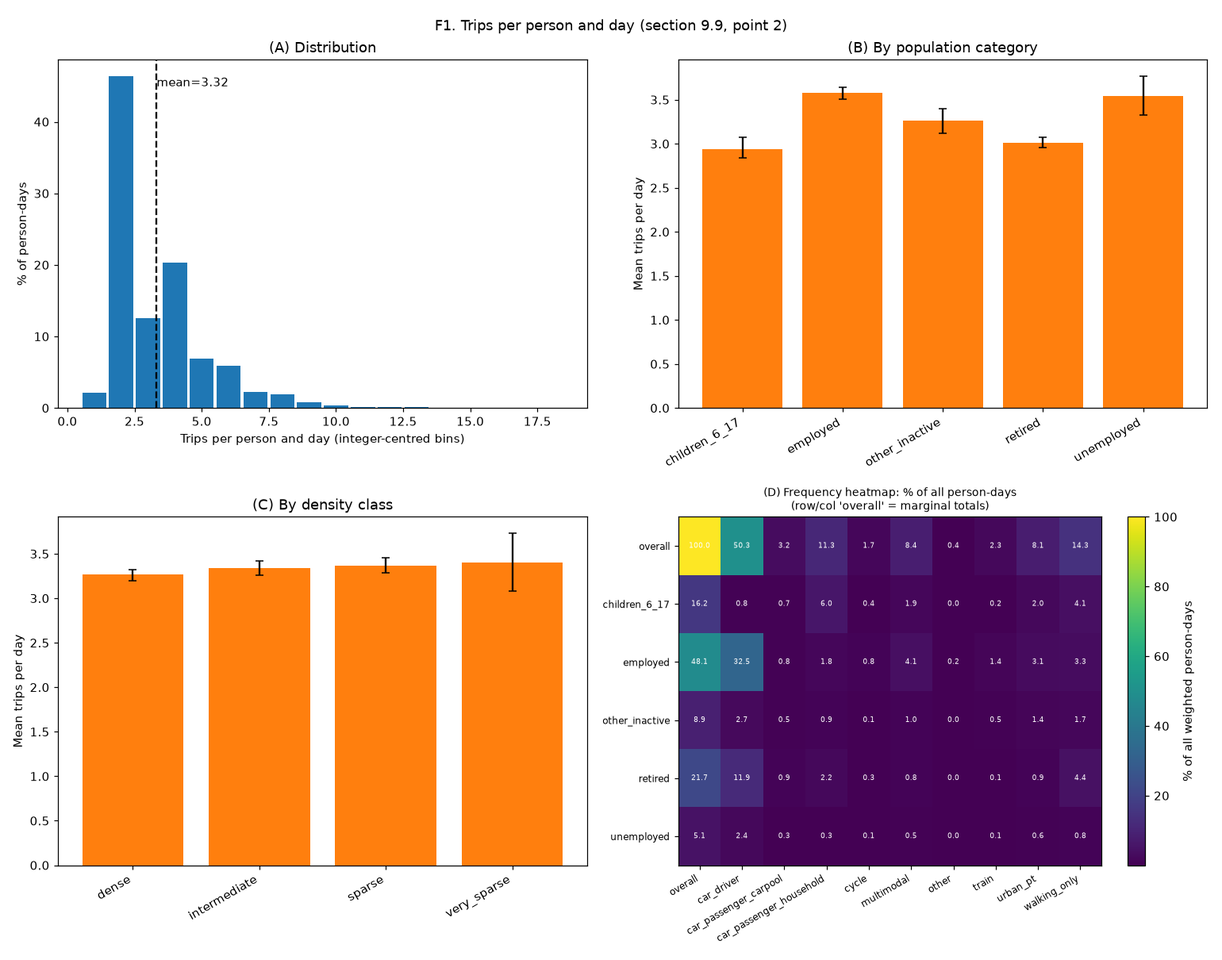
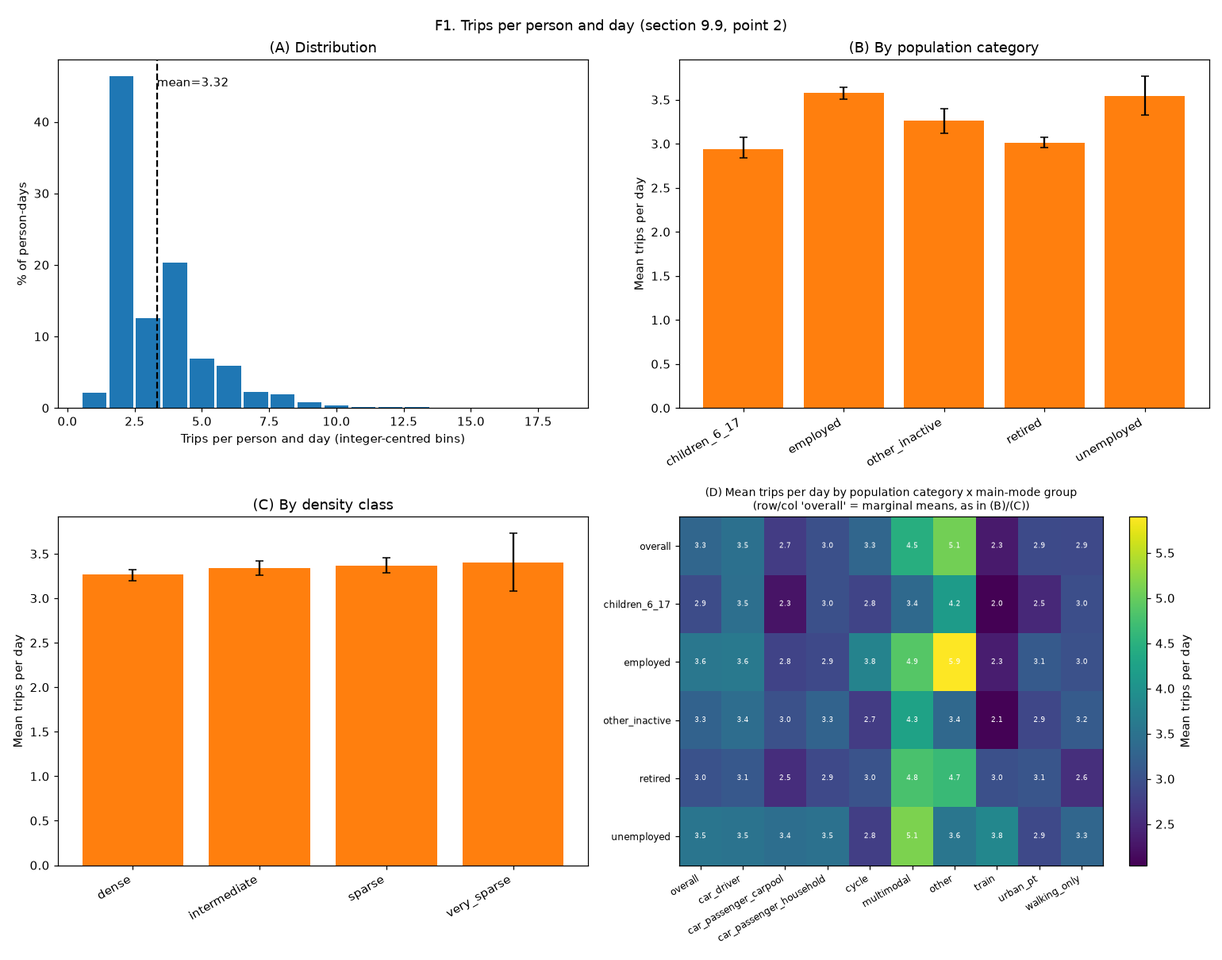
Step 11 (ninth round): F1 heatmap as mean trips/day, F4a value labels
- F1 panel (D) now reports the weighted mean trips per day in each
  (population category x main-mode group) cell instead of a % share of
  person-days, so it is the direct cross-tabulated synthesis of panels
  (B) and (C); the "overall" row/column are marginal means and the
  top-left cell matches panel (A)'s reported mean exactly.
- F4a now prints each bar's mean value as text and adds two dotted
  reference lines for the overall median (kh/cp), each labelled with
  its numeric value, next to the existing KH-615 and computed-mean
  lines.
- docs/progress.md: ninth-round note.

Audited (no code change): every mean/median/CI/ratio in this module is
weighted by pond_jour (weighted_mean_variance, bootstrap_group_stats,
bootstrap_mean_ci, _panel_overall_stats, _frequency_matrix, v0/P0
ratio-of-weighted-sums estimators, robustness rows, SQL
sum(pond_jour * ...) aggregates); the one unweighted mean/std in
daily_energy.py's robustness CV operates on already-weighted group
means, not raw data.

Ruff clean; 22 budget tests pass.

diff --git a/packages/mobgrid/budget/emp.py b/packages/mobgrid/budget/emp.py
@@ -632,17 +632,18 @@ def _trips_per_day_by_group(
 
 
 def _frequency_matrix(days: dict) -> tuple[list[str], list[str], np.ndarray]:
-    """(rows, cols, matrix): % of all weighted person-days in each
-    (population category, main-mode group) cell, with "overall" margins
-    in both directions (row 0/col 0), for F1's frequency heatmap. Excludes
-    the 'unknown' population category, as elsewhere in this report."""
+    """(rows, cols, matrix): weighted mean trips per day in each
+    (population category, main-mode group) cell -- the same quantity as
+    F1 panels (B)/(C), cross-tabulated instead of two separate bar
+    charts -- with "overall" margins in both directions (row 0/col 0,
+    mean trips/day ignoring the other axis). Excludes the 'unknown'
+    population category, as elsewhere in this report."""
     categories = sorted(
         {c for c in days["population_category"] if c != "unknown"}
     )
     modes = sorted(set(days["day_mode_group"]))
     rows = ["overall", *categories]
     cols = ["overall", *modes]
-    total_weight = days["pond_jour"].sum()
     matrix = np.zeros((len(rows), len(cols)))
     for i, category in enumerate(rows):
         category_mask = (
@@ -654,9 +655,14 @@ def _frequency_matrix(days: dict) -> tuple[list[str], list[str], np.ndarray]:
                 np.ones(len(days["pond_jour"]), dtype=bool) if mode == "overall"
                 else days["day_mode_group"] == mode
             )
+            cell_mask = category_mask & mode_mask
+            cell_weight = days["pond_jour"][cell_mask]
             matrix[i, j] = (
-                days["pond_jour"][category_mask & mode_mask].sum()
-                / total_weight * 100.0
+                float(
+                    np.sum(cell_weight * days["trips_per_day"][cell_mask])
+                    / cell_weight.sum()
+                )
+                if cell_weight.sum() > 0 else np.nan
             )
     return rows, cols, matrix
 
@@ -711,15 +717,16 @@ def _figure_f1_trips_per_day(
     ax_freq.set_yticklabels(freq_rows, fontsize=8)
     for i in range(freq_matrix.shape[0]):
         for j in range(freq_matrix.shape[1]):
-            ax_freq.text(
-                j, i, f"{freq_matrix[i, j]:.1f}", ha="center", va="center",
-                fontsize=6, color="white",
-            )
+            if not np.isnan(freq_matrix[i, j]):
+                ax_freq.text(
+                    j, i, f"{freq_matrix[i, j]:.1f}", ha="center", va="center",
+                    fontsize=6, color="white",
+                )
     ax_freq.set_title(
-        "(D) Frequency heatmap: % of all person-days\n"
-        "(row/col 'overall' = marginal totals)", fontsize=9,
+        "(D) Mean trips per day by population category x main-mode group\n"
+        "(row/col 'overall' = marginal means, as in (B)/(C))", fontsize=9,
     )
-    fig.colorbar(image, ax=ax_freq, label="% of all weighted person-days")
+    fig.colorbar(image, ax=ax_freq, label="Mean trips per day")
 
     fig.suptitle("F1. Trips per person and day (section 9.9, point 2)")
     fig.tight_layout()
@@ -853,25 +860,32 @@ def _bootstrap_stats_where(
     return {s.group: s for s in stats}
 
 
-def _panel_overall_mean(
+def _panel_overall_stats(
     con: duckdb.DuckDBPyConnection, where_sql: str
-) -> tuple[float, float]:
-    """This panel's own weighted mean daily energy (both rate sets),
-    across every main-mode group combined (F4a's "computed mean" line,
-    distinct from Koelbl & Helbing's fixed 615 kJ reference)."""
+) -> tuple[float, float, float, float]:
+    """This panel's own weighted mean and median daily energy (both rate
+    sets), across every main-mode group combined (F4a's "computed mean"
+    and "overall median" lines, distinct from Koelbl & Helbing's fixed
+    615 kJ reference)."""
     rows = con.sql(
         "SELECT pond_jour, total_energy_kh_kj, total_energy_cp_kj FROM day_summary "
         f"WHERE total_energy_kh_kj IS NOT NULL AND ({where_sql})"
     ).fetchnumpy()
     if len(rows["pond_jour"]) == 0:
-        return float("nan"), float("nan")
+        return (float("nan"),) * 4
     mean_kh, _ = daily_energy.weighted_mean_variance(
         rows["pond_jour"], rows["total_energy_kh_kj"]
     )
     mean_cp, _ = daily_energy.weighted_mean_variance(
         rows["pond_jour"], rows["total_energy_cp_kj"]
     )
-    return mean_kh, mean_cp
+    median_kh = daily_energy._weighted_median(
+        rows["total_energy_kh_kj"], rows["pond_jour"]
+    )
+    median_cp = daily_energy._weighted_median(
+        rows["total_energy_cp_kj"], rows["pond_jour"]
+    )
+    return mean_kh, mean_cp, median_kh, median_cp
 
 
 def _figure_f4_mean_by_mode(
@@ -894,8 +908,8 @@ def _figure_f4_mean_by_mode(
         (label, _bootstrap_stats_where(con, where_sql, n_reps=n_reps, seed=seed))
         for label, where_sql in panel_where_sql
     ]
-    panel_means = {
-        label: _panel_overall_mean(con, where_sql)
+    panel_stats_overall = {
+        label: _panel_overall_stats(con, where_sql)
         for label, where_sql in panel_where_sql
     }
 
@@ -928,6 +942,12 @@ def _figure_f4_mean_by_mode(
                 x + offset, medians, marker="D", color="black", s=14, zorder=3,
                 label=f"{rate_key} median" if ax is axes.flat[0] else None,
             )
+            for xi, mean, upper in zip(x + offset, means, uppers, strict=True):
+                if not np.isnan(mean):
+                    ax.text(
+                        xi, mean + upper, f"{mean:.0f}", ha="center", va="bottom",
+                        fontsize=6, rotation=90,
+                    )
         for i, group in enumerate(present):
             ax.text(
                 i, 0, f"n={stats[group].n}", ha="center", va="bottom", fontsize=6,
@@ -938,7 +958,9 @@ def _figure_f4_mean_by_mode(
             linewidth=0.8,
             label="Koelbl & Helbing 615 kJ" if ax is axes.flat[0] else None,
         )
-        panel_mean_kh, panel_mean_cp = panel_means[label]
+        panel_mean_kh, panel_mean_cp, panel_median_kh, panel_median_cp = (
+            panel_stats_overall[label]
+        )
         ax.axhline(
             panel_mean_kh, color="tab:blue", linestyle="-.", linewidth=0.8,
             label="computed mean (kh)" if ax is axes.flat[0] else None,
@@ -946,6 +968,22 @@ def _figure_f4_mean_by_mode(
         ax.axhline(
             panel_mean_cp, color="tab:orange", linestyle="-.", linewidth=0.8,
             label="computed mean (cp)" if ax is axes.flat[0] else None,
+        )
+        ax.axhline(
+            panel_median_kh, color="tab:blue", linestyle=":", linewidth=0.8,
+            label="overall median (kh)" if ax is axes.flat[0] else None,
+        )
+        ax.text(
+            len(present) - 0.5, panel_median_kh, f"{panel_median_kh:.0f}",
+            color="tab:blue", fontsize=6, ha="right", va="bottom",
+        )
+        ax.axhline(
+            panel_median_cp, color="tab:orange", linestyle=":", linewidth=0.8,
+            label="overall median (cp)" if ax is axes.flat[0] else None,
+        )
+        ax.text(
+            len(present) - 0.5, panel_median_cp, f"{panel_median_cp:.0f}",
+            color="tab:orange", fontsize=6, ha="right", va="top",
         )
         ax.set_xticks(x)
         ax.set_xticklabels(present, rotation=45, ha="right", fontsize=7)
@@ -955,7 +993,8 @@ def _figure_f4_mean_by_mode(
         ax.axis("off")
     fig.suptitle(
         "F4a. Mean daily energy by main-mode group, 95% CI, n, median marker, "
-        "this panel's own computed mean (section 9.9)"
+        "mean/median values, this panel's own computed mean and overall "
+        "median (section 9.9)"
     )
     fig.tight_layout()
     path_energy = out_dir / "f04a_mean_energy_by_mode.png"

diff --git a/docs/progress.md b/docs/progress.md
@@ -2,7 +2,7 @@
 
 Read this file at the start of every task and update it at the end.
 
-_Last updated: 2026-10-20 by Copilot (step 11, eighth round: merged `train_short`/`train_long` into a single `train` day-mode group (too few `train_long` observations); extended the needs-only exclusion to the whole of motive group 8 (holidays/second home/other private reasons), not just 7.6/7.7/7.8; F9 now has two panels, full dataset and the final needs-only decomposition; F1 gained a frequency heatmap (population category x main-mode group, with marginal "overall" row/column); branch `step/mobgrid-budget`, awaiting review)_
+_Last updated: 2026-10-20 by Copilot (step 11, ninth round: F1's heatmap now shows mean trips/day per cell instead of a % share, consistent with panels B/C; F4a bars now print their mean value and two new dotted lines mark the overall median (kh/cp) with its value; confirmed by code audit that `pond_jour` weighting is used throughout; branch `step/mobgrid-budget`, awaiting review)_
 
 ## Steps (table of section 14.5)
 
@@ -25,7 +25,7 @@ _Last updated: 2026-10-20 by Copilot (step 11, eighth round: merged `train_short
 | 8 | `mobgrid/graph` | not started | | |
 | 9 | `mobgrid/layers/gridgraph.py` | not started | | |
 | 10 | `mobgrid/od` | not started | | |
-| 11 | `mobgrid/budget` | review | `step/mobgrid-budget` | **Brought forward before steps 8-10** (needs only step 7 and the EMP 2019 public tables, not the graph/OD steps). Section 9.9's re-estimation steps 1-3 and 5 on EMP 2019's public tables (`K_DEPLOC`, `TCM_IND_KISH`, `K_INDIVIDU`; `TCM_IND`/`Q_MENAGE` acquired and checked but not needed by this step's formulas); EMC² (step 4) and Ē_c (step 6) are out of scope. `emp2019.py` rebuilds each of the 45,169 EMP 2019 trips (13,370 respondents, 455 reporting no trip) as legs, reusing `mobgrid.energy`'s public walk/bike/legs/rates formulas: terminal legs by density class (car: `config.car.*`, already calibrated for step 7; PT: provisional `config.pt_ride.headway_min_am_peak`/`station_height_m`/`access_walk_m_by_density`, TODO(confirm), since EMP has no headway/station-depth/access-distance data) and the main leg at the rest of the declared duration (`DUREE`); companions (`MACCOMPM`/`MACCOMPHM`) separate household from carpool car passengers. `daily_energy.py` sums to one row per respondent, classifies each day by its one non-walk mode, and computes weighted group means with a household bootstrap 95% CI (`bootstrap_group_stats`), a method-of-moments gamma fit (no new `scipy` dependency), and the v0/P0 calibration by age band. Checked the user-reported ~119 kJ train-chain discrepancy from step 7's `checks.py`: escalators (standing rate), not stairs, are already correctly used above the 10 m threshold (commit `cc9eb81`'s fix). Found and fixed a pre-existing `config.pt_ride.standing_share_am_peak` key mismatch (4 of `load_factor_max`'s 8 vehicle keys were missing). **Second round (after main's spec 6/9 update, "population categories, train and passenger splits"):** day-mode groups now keep household/carpool passengers and short (<80 km)/long train separate (no collapsing; `emp2019.TRAIN_LONG_THRESHOLD_KM`), "multimodal" and "other" (enumerated in the report) stay apart; population category follows section 6.1's five groups exactly (`SITUA`'s student code now folds into `other_inactive`, dropping the ad hoc sixth "student" group); density labels use the INSEE grid's own names/order (dense/intermediate/sparse/very_sparse; `emp2019._DENSITY_LABEL_BY_CODE`/`_DENSITY_KEY_TRANSLATION`), checked against the categories PDF. v0 and P0 are now ratio-of-weighted-sums estimators (not averages of per-trip speeds); P0 first subtracts bike get/park (new `config.bike.get_park_min`, 1 min each) and expected stop delays (new `config.bike.stops.stops_per_km`, both TODO(confirm)) from the declared duration, with an unreliable-adjustment fallback to the naive whole-duration speed below a minimum ride-time/fraction or above a plausibility speed cap (`emp2019._BIKE_MIN_RIDE_TIME_S`/`_BIKE_MIN_RIDE_FRACTION`/`_BIKE_MAX_PLAUSIBLE_SPEED_KMH`) for a handful of very short or implausibly fast cycling trips. `build_trip_legs` gained `terminal_scale`/`bike_p0_override_w` parameters and `create_day_summary` a `where_sql` filter, used by the new F8 robustness check (`daily_energy.robustness_row`/`RobustnessRow`): max/min ratio and CV of six groups' means, across both rate sets, terminal legs x0.5/x1/x1.5, P0 recalibrated vs the 52.5 W reference, weekdays-only vs all days, and local-trips-only (`MOBLOC=1`) vs all. Added a weighted Gaussian KDE on log-energy (`daily_energy.weighted_gaussian_kde`/`weighted_gaussian_bandwidth`, Silverman's rule, no `scipy`) for F3's stacked/overlaid density figures (overall and one per population category, Compendium, with a KH appendix). Investigated the non-traveller immobility share (reported low at 2.7%): identification is "no K_DEPLOC row for the day", which matches `K_INDIVIDU`'s own `MIMMOSEM` flag exactly for all 455 cases; EMP 2019's public tables record no day-of-week for a fully immobile respondent, so the figure is an inherently weekday-dominated estimate, not an all-week average (documented, not changed). Verification command `python -m mobgrid.budget.emp --out docs/data/step11_budget` (`emp.py`) now writes 11 PNGs (F1, F3 x4 incl. KH appendix, F4a/b, F5, F6, F7, F8) plus `docs/data/step11_budget.md`; run once, committed. On real EMP 2019 data (second round): overall weighted mean daily energy 684 kJ (KH) / 604 kJ (Compendium) against Koelbl & Helbing's 615 kJ hypothesis; calibrated v0 3.96 km/h (configured 4.8), P0 34.8 W at an implied flat speed of 13.55 km/h (reference 52.5 W at 16 km/h). **Third round (new `docs/spec/09_trip_legs_energy.md`, unloaded pedalling cost):** `emp2019.py`'s cycle-energy SQL formula gains the same unloaded-pedalling term as `mobgrid.energy.bike` (section 9.7, step 7 third round), on `bike_ride_time_for_energy_s` at the reference mass, both rate sets; P0 itself is unaffected (it is calibrated from implied speed via force-balance physics, not from energy/duration), still 34.8 W at 13.55 km/h. Added two tables to `step11_budget.md`: mean daily energy (both rate sets) and time, 95% CI and n, for every main-mode group, overall and one sub-table per population category (`emp._figure_f4_mean_by_mode` now also returns its per-panel stats, `_format_group_table_by_panel`); the F8 robustness table now also names each variant's min/max group (`daily_energy.RobustnessRow`/`robustness_row` gained `*_min_group`/`*_max_group` fields). Rerun on real EMP 2019 data: overall weighted mean daily energy 691.1 kJ (kh), 611.2 kJ (compendium); v0/P0 unchanged. Ruff clean; 18 budget tests pass (361 total, 3 pilot deselected). **Fourth round (bug fix and data-quality/robustness additions):** found and fixed the cycling-energy bug the user flagged (cycle-day energy at 1,295 kJ/69.6 min, ~18.6 kJ/min, above the population riding rate and with a tail to 10^4 kJ): `emp2019.py`'s energy formula derived each cycling trip's OWN power from its own (reliability-adjusted) implied speed -- correct for the aggregate v0/P0 calibration (a ratio of weighted sums), but wrong for per-trip energy, since power is convex in speed (drag's cubic term) and EMP's durations are rounded to 5/15/30/60 min, so averaging per-trip power over-estimates the population mean (the same Jensen's-inequality bias the ratio-of-sums estimator was built to avoid, reintroduced one level down). Fix: `build_trip_legs`'s cycling work term is now time-based at a single population-level power -- `bike_p0_override_w` if given, else `config.bike.power.p0_w` (34.8 W, EMP-confirmed) -- applied uniformly to every pedalled second (`bike_ride_time_for_energy_s`), matching how every other mode's rate is already a fixed, config-level constant, not a per-respondent recalibration; the per-trip `p0_calibrated_w` column is kept as a diagnostic only. Mean cycle-day energy dropped from 1,459 kJ to 1,020 kJ (median 735->706 kJ, max 21,761->6,747 kJ) on the unfiltered sample. Added a door-to-door speed-plausibility data-quality filter, all modes (walk 1.5-7 km/h, bike 5-35 km/h, car <=130 km/h; `emp2019.WALK_PLAUSIBLE_SPEED_KMH`/`CYCLE_PLAUSIBLE_SPEED_KMH`/`CAR_MAX_PLAUSIBLE_SPEED_KMH`, new `trip_legs.speed_plausible` column), with the main-mode group table reported both with and without flagged trips in `step11_budget.md` (25.8% of walk trips are flagged, mostly short, rounded-duration trips; 15.1% of cycle trips; 0% of car trips). Added weighted medians next to every mean in `GroupStats`/the group tables (`daily_energy._weighted_median`/`_weighted_group_medians`). Extended the F8 robustness table with a "core" scope (walk/driver/urban PT/train short) alongside the existing "full" six-group scope (`daily_energy.F8_CORE_ROBUSTNESS_GROUPS`, `RobustnessRow.scope`). Investigated "children as car drivers" (n=56 children_6_17 car_driver days): the raw `mtp` code is 3.1/3.3 ("Automobile" category, not a two-wheeler 2.x code), so no two-wheeler reclassification applies; most plausibly EMP's own household/accompanying-trip coding for the under-14 share, genuine voiturette/accompanied driving possible for the 14-17 share. F3's density figures now drop groups/panels with n < 50 trips and the 'unknown' population category (12 persons, also dropped from F1/F4/F5), and use a widened (x1.5) Silverman bandwidth; removed three stale first-round figure files (`f03_daily_energy_histogram.png`, `f04_mean_by_mode.png`, `f05_mean_by_age_density.png`). Rerun on real EMP 2019 data: overall weighted mean daily energy 682.1 kJ (kh), 602.3 kJ (compendium), closer to Koelbl & Helbing's 615 kJ than the buggy 691.1/611.2; v0/P0 calibration unaffected (still 34.8 W at 13.55 km/h, since it never used the per-trip power). Ruff clean; 19 budget tests pass (362 total, 3 pilot deselected). **Fifth round (leisure loops, correction instead of drop, decomposition, median robustness, every figure twice):** leisure-loop trips identified by EMP's own `MMOTIFDES` = 7.7 ("se promener sans destination precise"; no commune-level origin field exists in the public release for a geometric origin=destination check, so the purpose code is EMP's own operationalisation); `trip_legs.is_loop_trip`, reported as trip/day-energy shares by main-mode group and a loop-excluded group table (`create_day_summary`'s existing `where_sql`). The speed-quality filter is now upper-bound-only (walk > 7, bike > 35, car > 130 km/h; `emp2019.WALK_SPEED_UPPER_KMH`/`CYCLE_SPEED_UPPER_KMH`/`CAR_SPEED_UPPER_KMH`) and corrects flagged walk/car trips' declared distance to duration x the mode's own median speed (from its not-flagged trips, a window `median() FILTER` in `build_trip_legs`) instead of excluding them; bike is flagged but not corrected (its energy is already time-based). Added `emp._compute_cycle_decomposition` (ride work/unloaded/stops/get-park/same-day-walking, kJ and minutes, plus kJ/stop) to the report. `daily_energy.robustness_row`/`RobustnessRow` gained a `statistic` field (`"mean"`/`"median"`), so F8 now reports both for every variant and scope. F4a's bars now also show a diamond marker at each group's median. Every figure (F1-F8) is now produced twice per `emp._run_variant`, `"_all"`/`"_noloops"` (22 PNGs, replacing the single-pass set; `calibrate_v0_kmh`/`calibrate_p0` and `_run_robustness` gained a `where_sql`/`base_where_sql` filter for the `_noloops` pass). Ruff clean; 20 budget tests pass (363 total, 3 pilot deselected). **Sixth round (cycling energy by motive, user note "data for bike are still too large"):** decomposed cycling energy by `k_deploc.MOT_SEQ_COMPL` ("Motif corrige detaille de la sequence", EMP's own chain-level, corrected purpose -- unlike the raw, trip-level `MMOTIFDES` behind `is_loop_trip`, it excludes "return home" codes 1.1-1.3 since a return leg is recoded to its outward leg's purpose); new `trip_legs.motive` column (`emp2019.MOTIVE_LABEL_BY_CODE`, labels from the categories PDF's "Motif" table), `emp._compute_motive_decomposition`/`_format_motive_table` add a per-motive trip/energy-share table (sorted by weighted energy, largest first) plus a leisure-cycling rollup (`emp2019.LEISURE_CYCLING_MOTIVE_CODES` = 7.6 sport/7.7 loop/7.8 promenade-destination, per the user's own hunch) to `step11_budget.md`. Found: leisure cycling is 29.1% of weighted cycling trips but 46.9% of cycling's weighted energy (both rate sets, since cycling's own formula is almost entirely rate-set-invariant) -- the single largest identified driver of cycling's still-large mean energy, ahead of any remaining formula or data-quality issue. Ruff clean; 22 budget tests pass (365 total, 3 pilot deselected). **Seventh round (user confirmed the diagnosis; scope decision: "only interested in commuting and travelling for needs fulfilment"):** `emp2019.NEEDS_EXCLUDED_MOTIVE_CODES = (7.6, 7.7, 7.8)` and `NEEDS_ONLY_WHERE_SQL` (missing/refused motive kept, not excluded) are now the single base filter for every table and figure in the report -- not an optional variant; round 5's `_run_variant`/`_all`/`_noloops` figure-doubling mechanism is retired (back to one pass, one set of figures, per explicit user choice among three offered options). `_compute_cycle_decomposition` and the F8/v0/P0/passenger/carpool queries all now apply this same filter for consistency with `day_summary`'s own totals. A separate, final diagnostic pass on the full (unfiltered-by-motive) dataset keeps the motive-share evidence (now reported for every mode, not just cycling, via new `excluded_trip_shares`/`excluded_energy_shares`) and a few checks that must stay scope-independent (non-traveller share, data-quality corrections, children-as-car-drivers). New F9 figure: 100%-stacked bar of weighted KH energy by top-level motive (`emp2019.TOP_LEVEL_MOTIVE_LABEL_BY_CODE`), one bar per mode, full dataset -- confirms "leisure" is the largest or second-largest segment for cycle and walk. F4a gained two new per-panel "computed mean" reference lines (this panel's own weighted mean, kh and cp, alongside the fixed Koelbl & Helbing 615 kJ line), computed via new `emp._panel_overall_mean`. Investigated the user-reported "median below the CI interval, systematically": confirmed not a bug -- the bootstrap 95% CI is on the *mean*, which for samples in the hundreds/thousands is narrow, while every group's own distribution is right-skewed (a few long/expensive trips), so the median sits noticeably, and expectedly, below that narrow band; verified computationally (same underlying per-day values feed both estimators) rather than just asserted. Cycle group mean dropped 827 -> 632 kJ (median 607 -> 626, oddly close now); overall weighted mean dropped 587 kJ (kh) -- now *below* Koelbl & Helbing's 615 kJ, versus 682-691 kJ (overshooting) in earlier rounds. Figures: 12 total (F1, F3 x4 incl. KH appendix, F4a/b, F5, F6, F7, F8, F9), replacing round 5's 22 (`_all`/`_noloops` variants removed, F9 added); confirmed no stale files remain. Ruff clean; 22 budget tests pass (365 total, 3 pilot deselected). **Eighth round (final cleanup):** `train_short`/`train_long` (distance split at `TRAIN_LONG_THRESHOLD_KM` = 80 km) merged into a single `train` day-mode group across `emp2019.py` (classification CASE, both energy-formula CASE blocks), `daily_energy.DAY_MODE_GROUPS`/`F8_ROBUSTNESS_GROUPS`/`F8_CORE_ROBUSTNESS_GROUPS`, and every markdown string naming the split -- `train_long` had too few observations (n=39, vs train_short's 183) to be a meaningful separate group, and this removed a `TRAIN_LONG_THRESHOLD_KM` constant now dead. `emp2019.NEEDS_EXCLUDED_MOTIVE_CODES` extended from `(7.6, 7.7, 7.8)` to `(7.6, 7.7, 7.8, 8.1, 8.2, 8.3, 8.4)` (the whole of motive group 8 -- holidays, second/occasional residence, other private reasons -- none of them a needs-fulfilment destination), per explicit user confirmation; `_compute_motive_energy_matrix` gained a `where_sql` parameter so F9 can show both the full, pre-exclusion dataset (panel A, the evidence) and "the final decomposition" after the needs-only filter (panel B, confirms motive 8 disappears entirely and motive 7/leisure shrinks to its remaining 7.1-7.5 sub-codes, not to zero). F1 gained a 4th panel: a frequency heatmap of % of all weighted person-days by (population category x main-mode group), with "overall" marginal row/column (a genuine 2-way contingency table, not row-normalised), annotated with every cell's value. Cycle energy's needs-excluded share rose slightly to 47.8% (from 46.9%) once motive 8 was added; overall weighted mean daily energy is now 583.8 kJ (kh), 522.4 kJ (compendium). Ruff clean; 22 budget tests pass (365 total, 3 pilot deselected). |
+| 11 | `mobgrid/budget` | review | `step/mobgrid-budget` | **Brought forward before steps 8-10** (needs only step 7 and the EMP 2019 public tables, not the graph/OD steps). Section 9.9's re-estimation steps 1-3 and 5 on EMP 2019's public tables (`K_DEPLOC`, `TCM_IND_KISH`, `K_INDIVIDU`; `TCM_IND`/`Q_MENAGE` acquired and checked but not needed by this step's formulas); EMC² (step 4) and Ē_c (step 6) are out of scope. `emp2019.py` rebuilds each of the 45,169 EMP 2019 trips (13,370 respondents, 455 reporting no trip) as legs, reusing `mobgrid.energy`'s public walk/bike/legs/rates formulas: terminal legs by density class (car: `config.car.*`, already calibrated for step 7; PT: provisional `config.pt_ride.headway_min_am_peak`/`station_height_m`/`access_walk_m_by_density`, TODO(confirm), since EMP has no headway/station-depth/access-distance data) and the main leg at the rest of the declared duration (`DUREE`); companions (`MACCOMPM`/`MACCOMPHM`) separate household from carpool car passengers. `daily_energy.py` sums to one row per respondent, classifies each day by its one non-walk mode, and computes weighted group means with a household bootstrap 95% CI (`bootstrap_group_stats`), a method-of-moments gamma fit (no new `scipy` dependency), and the v0/P0 calibration by age band. Checked the user-reported ~119 kJ train-chain discrepancy from step 7's `checks.py`: escalators (standing rate), not stairs, are already correctly used above the 10 m threshold (commit `cc9eb81`'s fix). Found and fixed a pre-existing `config.pt_ride.standing_share_am_peak` key mismatch (4 of `load_factor_max`'s 8 vehicle keys were missing). **Second round (after main's spec 6/9 update, "population categories, train and passenger splits"):** day-mode groups now keep household/carpool passengers and short (<80 km)/long train separate (no collapsing; `emp2019.TRAIN_LONG_THRESHOLD_KM`), "multimodal" and "other" (enumerated in the report) stay apart; population category follows section 6.1's five groups exactly (`SITUA`'s student code now folds into `other_inactive`, dropping the ad hoc sixth "student" group); density labels use the INSEE grid's own names/order (dense/intermediate/sparse/very_sparse; `emp2019._DENSITY_LABEL_BY_CODE`/`_DENSITY_KEY_TRANSLATION`), checked against the categories PDF. v0 and P0 are now ratio-of-weighted-sums estimators (not averages of per-trip speeds); P0 first subtracts bike get/park (new `config.bike.get_park_min`, 1 min each) and expected stop delays (new `config.bike.stops.stops_per_km`, both TODO(confirm)) from the declared duration, with an unreliable-adjustment fallback to the naive whole-duration speed below a minimum ride-time/fraction or above a plausibility speed cap (`emp2019._BIKE_MIN_RIDE_TIME_S`/`_BIKE_MIN_RIDE_FRACTION`/`_BIKE_MAX_PLAUSIBLE_SPEED_KMH`) for a handful of very short or implausibly fast cycling trips. `build_trip_legs` gained `terminal_scale`/`bike_p0_override_w` parameters and `create_day_summary` a `where_sql` filter, used by the new F8 robustness check (`daily_energy.robustness_row`/`RobustnessRow`): max/min ratio and CV of six groups' means, across both rate sets, terminal legs x0.5/x1/x1.5, P0 recalibrated vs the 52.5 W reference, weekdays-only vs all days, and local-trips-only (`MOBLOC=1`) vs all. Added a weighted Gaussian KDE on log-energy (`daily_energy.weighted_gaussian_kde`/`weighted_gaussian_bandwidth`, Silverman's rule, no `scipy`) for F3's stacked/overlaid density figures (overall and one per population category, Compendium, with a KH appendix). Investigated the non-traveller immobility share (reported low at 2.7%): identification is "no K_DEPLOC row for the day", which matches `K_INDIVIDU`'s own `MIMMOSEM` flag exactly for all 455 cases; EMP 2019's public tables record no day-of-week for a fully immobile respondent, so the figure is an inherently weekday-dominated estimate, not an all-week average (documented, not changed). Verification command `python -m mobgrid.budget.emp --out docs/data/step11_budget` (`emp.py`) now writes 11 PNGs (F1, F3 x4 incl. KH appendix, F4a/b, F5, F6, F7, F8) plus `docs/data/step11_budget.md`; run once, committed. On real EMP 2019 data (second round): overall weighted mean daily energy 684 kJ (KH) / 604 kJ (Compendium) against Koelbl & Helbing's 615 kJ hypothesis; calibrated v0 3.96 km/h (configured 4.8), P0 34.8 W at an implied flat speed of 13.55 km/h (reference 52.5 W at 16 km/h). **Third round (new `docs/spec/09_trip_legs_energy.md`, unloaded pedalling cost):** `emp2019.py`'s cycle-energy SQL formula gains the same unloaded-pedalling term as `mobgrid.energy.bike` (section 9.7, step 7 third round), on `bike_ride_time_for_energy_s` at the reference mass, both rate sets; P0 itself is unaffected (it is calibrated from implied speed via force-balance physics, not from energy/duration), still 34.8 W at 13.55 km/h. Added two tables to `step11_budget.md`: mean daily energy (both rate sets) and time, 95% CI and n, for every main-mode group, overall and one sub-table per population category (`emp._figure_f4_mean_by_mode` now also returns its per-panel stats, `_format_group_table_by_panel`); the F8 robustness table now also names each variant's min/max group (`daily_energy.RobustnessRow`/`robustness_row` gained `*_min_group`/`*_max_group` fields). Rerun on real EMP 2019 data: overall weighted mean daily energy 691.1 kJ (kh), 611.2 kJ (compendium); v0/P0 unchanged. Ruff clean; 18 budget tests pass (361 total, 3 pilot deselected). **Fourth round (bug fix and data-quality/robustness additions):** found and fixed the cycling-energy bug the user flagged (cycle-day energy at 1,295 kJ/69.6 min, ~18.6 kJ/min, above the population riding rate and with a tail to 10^4 kJ): `emp2019.py`'s energy formula derived each cycling trip's OWN power from its own (reliability-adjusted) implied speed -- correct for the aggregate v0/P0 calibration (a ratio of weighted sums), but wrong for per-trip energy, since power is convex in speed (drag's cubic term) and EMP's durations are rounded to 5/15/30/60 min, so averaging per-trip power over-estimates the population mean (the same Jensen's-inequality bias the ratio-of-sums estimator was built to avoid, reintroduced one level down). Fix: `build_trip_legs`'s cycling work term is now time-based at a single population-level power -- `bike_p0_override_w` if given, else `config.bike.power.p0_w` (34.8 W, EMP-confirmed) -- applied uniformly to every pedalled second (`bike_ride_time_for_energy_s`), matching how every other mode's rate is already a fixed, config-level constant, not a per-respondent recalibration; the per-trip `p0_calibrated_w` column is kept as a diagnostic only. Mean cycle-day energy dropped from 1,459 kJ to 1,020 kJ (median 735->706 kJ, max 21,761->6,747 kJ) on the unfiltered sample. Added a door-to-door speed-plausibility data-quality filter, all modes (walk 1.5-7 km/h, bike 5-35 km/h, car <=130 km/h; `emp2019.WALK_PLAUSIBLE_SPEED_KMH`/`CYCLE_PLAUSIBLE_SPEED_KMH`/`CAR_MAX_PLAUSIBLE_SPEED_KMH`, new `trip_legs.speed_plausible` column), with the main-mode group table reported both with and without flagged trips in `step11_budget.md` (25.8% of walk trips are flagged, mostly short, rounded-duration trips; 15.1% of cycle trips; 0% of car trips). Added weighted medians next to every mean in `GroupStats`/the group tables (`daily_energy._weighted_median`/`_weighted_group_medians`). Extended the F8 robustness table with a "core" scope (walk/driver/urban PT/train short) alongside the existing "full" six-group scope (`daily_energy.F8_CORE_ROBUSTNESS_GROUPS`, `RobustnessRow.scope`). Investigated "children as car drivers" (n=56 children_6_17 car_driver days): the raw `mtp` code is 3.1/3.3 ("Automobile" category, not a two-wheeler 2.x code), so no two-wheeler reclassification applies; most plausibly EMP's own household/accompanying-trip coding for the under-14 share, genuine voiturette/accompanied driving possible for the 14-17 share. F3's density figures now drop groups/panels with n < 50 trips and the 'unknown' population category (12 persons, also dropped from F1/F4/F5), and use a widened (x1.5) Silverman bandwidth; removed three stale first-round figure files (`f03_daily_energy_histogram.png`, `f04_mean_by_mode.png`, `f05_mean_by_age_density.png`). Rerun on real EMP 2019 data: overall weighted mean daily energy 682.1 kJ (kh), 602.3 kJ (compendium), closer to Koelbl & Helbing's 615 kJ than the buggy 691.1/611.2; v0/P0 calibration unaffected (still 34.8 W at 13.55 km/h, since it never used the per-trip power). Ruff clean; 19 budget tests pass (362 total, 3 pilot deselected). **Fifth round (leisure loops, correction instead of drop, decomposition, median robustness, every figure twice):** leisure-loop trips identified by EMP's own `MMOTIFDES` = 7.7 ("se promener sans destination precise"; no commune-level origin field exists in the public release for a geometric origin=destination check, so the purpose code is EMP's own operationalisation); `trip_legs.is_loop_trip`, reported as trip/day-energy shares by main-mode group and a loop-excluded group table (`create_day_summary`'s existing `where_sql`). The speed-quality filter is now upper-bound-only (walk > 7, bike > 35, car > 130 km/h; `emp2019.WALK_SPEED_UPPER_KMH`/`CYCLE_SPEED_UPPER_KMH`/`CAR_SPEED_UPPER_KMH`) and corrects flagged walk/car trips' declared distance to duration x the mode's own median speed (from its not-flagged trips, a window `median() FILTER` in `build_trip_legs`) instead of excluding them; bike is flagged but not corrected (its energy is already time-based). Added `emp._compute_cycle_decomposition` (ride work/unloaded/stops/get-park/same-day-walking, kJ and minutes, plus kJ/stop) to the report. `daily_energy.robustness_row`/`RobustnessRow` gained a `statistic` field (`"mean"`/`"median"`), so F8 now reports both for every variant and scope. F4a's bars now also show a diamond marker at each group's median. Every figure (F1-F8) is now produced twice per `emp._run_variant`, `"_all"`/`"_noloops"` (22 PNGs, replacing the single-pass set; `calibrate_v0_kmh`/`calibrate_p0` and `_run_robustness` gained a `where_sql`/`base_where_sql` filter for the `_noloops` pass). Ruff clean; 20 budget tests pass (363 total, 3 pilot deselected). **Sixth round (cycling energy by motive, user note "data for bike are still too large"):** decomposed cycling energy by `k_deploc.MOT_SEQ_COMPL` ("Motif corrige detaille de la sequence", EMP's own chain-level, corrected purpose -- unlike the raw, trip-level `MMOTIFDES` behind `is_loop_trip`, it excludes "return home" codes 1.1-1.3 since a return leg is recoded to its outward leg's purpose); new `trip_legs.motive` column (`emp2019.MOTIVE_LABEL_BY_CODE`, labels from the categories PDF's "Motif" table), `emp._compute_motive_decomposition`/`_format_motive_table` add a per-motive trip/energy-share table (sorted by weighted energy, largest first) plus a leisure-cycling rollup (`emp2019.LEISURE_CYCLING_MOTIVE_CODES` = 7.6 sport/7.7 loop/7.8 promenade-destination, per the user's own hunch) to `step11_budget.md`. Found: leisure cycling is 29.1% of weighted cycling trips but 46.9% of cycling's weighted energy (both rate sets, since cycling's own formula is almost entirely rate-set-invariant) -- the single largest identified driver of cycling's still-large mean energy, ahead of any remaining formula or data-quality issue. Ruff clean; 22 budget tests pass (365 total, 3 pilot deselected). **Seventh round (user confirmed the diagnosis; scope decision: "only interested in commuting and travelling for needs fulfilment"):** `emp2019.NEEDS_EXCLUDED_MOTIVE_CODES = (7.6, 7.7, 7.8)` and `NEEDS_ONLY_WHERE_SQL` (missing/refused motive kept, not excluded) are now the single base filter for every table and figure in the report -- not an optional variant; round 5's `_run_variant`/`_all`/`_noloops` figure-doubling mechanism is retired (back to one pass, one set of figures, per explicit user choice among three offered options). `_compute_cycle_decomposition` and the F8/v0/P0/passenger/carpool queries all now apply this same filter for consistency with `day_summary`'s own totals. A separate, final diagnostic pass on the full (unfiltered-by-motive) dataset keeps the motive-share evidence (now reported for every mode, not just cycling, via new `excluded_trip_shares`/`excluded_energy_shares`) and a few checks that must stay scope-independent (non-traveller share, data-quality corrections, children-as-car-drivers). New F9 figure: 100%-stacked bar of weighted KH energy by top-level motive (`emp2019.TOP_LEVEL_MOTIVE_LABEL_BY_CODE`), one bar per mode, full dataset -- confirms "leisure" is the largest or second-largest segment for cycle and walk. F4a gained two new per-panel "computed mean" reference lines (this panel's own weighted mean, kh and cp, alongside the fixed Koelbl & Helbing 615 kJ line), computed via new `emp._panel_overall_mean`. Investigated the user-reported "median below the CI interval, systematically": confirmed not a bug -- the bootstrap 95% CI is on the *mean*, which for samples in the hundreds/thousands is narrow, while every group's own distribution is right-skewed (a few long/expensive trips), so the median sits noticeably, and expectedly, below that narrow band; verified computationally (same underlying per-day values feed both estimators) rather than just asserted. Cycle group mean dropped 827 -> 632 kJ (median 607 -> 626, oddly close now); overall weighted mean dropped 587 kJ (kh) -- now *below* Koelbl & Helbing's 615 kJ, versus 682-691 kJ (overshooting) in earlier rounds. Figures: 12 total (F1, F3 x4 incl. KH appendix, F4a/b, F5, F6, F7, F8, F9), replacing round 5's 22 (`_all`/`_noloops` variants removed, F9 added); confirmed no stale files remain. Ruff clean; 22 budget tests pass (365 total, 3 pilot deselected). **Eighth round (final cleanup):** `train_short`/`train_long` (distance split at `TRAIN_LONG_THRESHOLD_KM` = 80 km) merged into a single `train` day-mode group across `emp2019.py` (classification CASE, both energy-formula CASE blocks), `daily_energy.DAY_MODE_GROUPS`/`F8_ROBUSTNESS_GROUPS`/`F8_CORE_ROBUSTNESS_GROUPS`, and every markdown string naming the split -- `train_long` had too few observations (n=39, vs train_short's 183) to be a meaningful separate group, and this removed a `TRAIN_LONG_THRESHOLD_KM` constant now dead. `emp2019.NEEDS_EXCLUDED_MOTIVE_CODES` extended from `(7.6, 7.7, 7.8)` to `(7.6, 7.7, 7.8, 8.1, 8.2, 8.3, 8.4)` (the whole of motive group 8 -- holidays, second/occasional residence, other private reasons -- none of them a needs-fulfilment destination), per explicit user confirmation; `_compute_motive_energy_matrix` gained a `where_sql` parameter so F9 can show both the full, pre-exclusion dataset (panel A, the evidence) and "the final decomposition" after the needs-only filter (panel B, confirms motive 8 disappears entirely and motive 7/leisure shrinks to its remaining 7.1-7.5 sub-codes, not to zero). F1 gained a 4th panel: a frequency heatmap of % of all weighted person-days by (population category x main-mode group), with "overall" marginal row/column (a genuine 2-way contingency table, not row-normalised), annotated with every cell's value. Cycle energy's needs-excluded share rose slightly to 47.8% (from 46.9%) once motive 8 was added; overall weighted mean daily energy is now 583.8 kJ (kh), 522.4 kJ (compendium). Ruff clean; 22 budget tests pass (365 total, 3 pilot deselected). **Ninth round (F1/F4a refinements):** F1's panel (D) now shows the weighted MEAN trips per day in each (population category x main-mode group) cell, not a % share of person-days -- the same quantity as panels (B)/(C), cross-tabulated (`_frequency_matrix` now computes `sum(weight * trips_per_day) / sum(weight)` per cell); the top-left "overall x overall" cell (3.3) matches panel (A)'s reported mean exactly, confirming consistency. F4a now prints each bar's mean value as rotated text above its CI whisker, and adds two more horizontal reference lines (dotted) for the "overall" median (kh/cp), each labelled with its numeric value, alongside the existing KH-615 and computed-mean lines. Confirmed (by code audit, no change needed) that every mean/median/CI/ratio computed in this module is weighted by `pond_jour` (the EMP day weight): `weighted_mean_variance`, `bootstrap_group_stats`, `bootstrap_mean_ci`, `_panel_overall_stats`, `_frequency_matrix`, the v0/P0 ratio-of-weighted-sums estimators, the robustness rows, and every SQL aggregate (`sum(pond_jour * ...)`); the one unweighted `.mean()`/`.std()` in `daily_energy.py` (robustness CV) operates on the array of already-weighted group means, not on raw trip/day data. Ruff clean; 22 budget tests pass. |
 
 Status values: not started, in progress, review, merged.
 

diff --git a/docs/data/step11_budget.md b/docs/data/step11_budget.md
@@ -32,7 +32,7 @@ INSEE's own 4-level grid names and order: dense (1, densely populated communes),
 
 ## Section 9.9's scope: commuting and travel for needs fulfilment
 
-Every table and figure above and below is restricted to this scope (2026-10-20 project decision, not an optional variant): trips whose corrected motive (`motive`, `MOT_SEQ_COMPL`) is sport (7.6), a destination-less stroll (7.7, "se promener sans destination precise") or going to a place to walk/ride (7.8, a destination exists, but the movement itself is the point) are excluded from every day's energy/time sums and from day classification; a day whose only trips were these becomes a non-traveller for this analysis. A missing/refused motive is kept, not excluded. See F9 and the table below for the evidence behind this decision, computed on the full, pre-exclusion dataset.
+Every table and figure above and below is restricted to this scope (2026-10-20 project decision, not an optional variant): trips whose corrected motive (`motive`, `MOT_SEQ_COMPL`) is sport (7.6), a destination-less stroll (7.7, "se promener sans destination precise"), going to a place to walk/ride (7.8, a destination exists, but the movement itself is the point), or any top-level motive group 8 purpose (8.1-8.4: holidays, second/occasional residence, other private reasons -- none of them a needs-fulfilment destination) are excluded from every day's energy/time sums and from day classification; a day whose only trips were these becomes a non-traveller for this analysis. A missing/refused motive is kept, not excluded. See F9 and the table below for the evidence behind this decision, computed on the full, pre-exclusion dataset.
 
 | Group | excluded trip share | n excluded / n total | excluded share of day energy (kh) | excluded share of day energy (cp) |
 |---|---|---|---|---|
@@ -280,7 +280,7 @@ Ride work, unloaded pedalling and stops are the same formula in both rate sets (
 
 ## Non-traveller immobility (point 2)
 
-Identified as: a Kish respondent with zero rows in K_DEPLOC for their described day. Cross-check: every one of these respondents has K_INDIVIDU's `MIMMOSEM` (weekday immobility) = 1 (100% match); `MDATE_jour` is blank only for these same respondents, so EMP 2019's public release records no day-of-week for a fully immobile respondent -- a Saturday/Sunday non-traveller cannot be told apart from a weekday one in these tables. The surveyed-day mix among travellers is TYPEJOUR=1: 1579350.6%, TYPEJOUR=2: 14886533.7%, TYPEJOUR=3: 62559060.5% (weekday-dominated: 2.7% overall immobility is a weekday-weighted figure, not comparable to all-week averages that include weekends, when immobility is known to be much higher).
+Identified as: a Kish respondent with zero rows in K_DEPLOC for their described day. Cross-check: every one of these respondents has K_INDIVIDU's `MIMMOSEM` (weekday immobility) = 1 (100% match); `MDATE_jour` is blank only for these same respondents, so EMP 2019's public release records no day-of-week for a fully immobile respondent -- a Saturday/Sunday non-traveller cannot be told apart from a weekday one in these tables. The surveyed-day mix among travellers is TYPEJOUR=1: 8463789.2%, TYPEJOUR=2: 1707116.1%, TYPEJOUR=3: 8753314.0% (weekday-dominated: 2.7% overall immobility is a weekday-weighted figure, not comparable to all-week averages that include weekends, when immobility is known to be much higher).
 
 ## Figures
 
